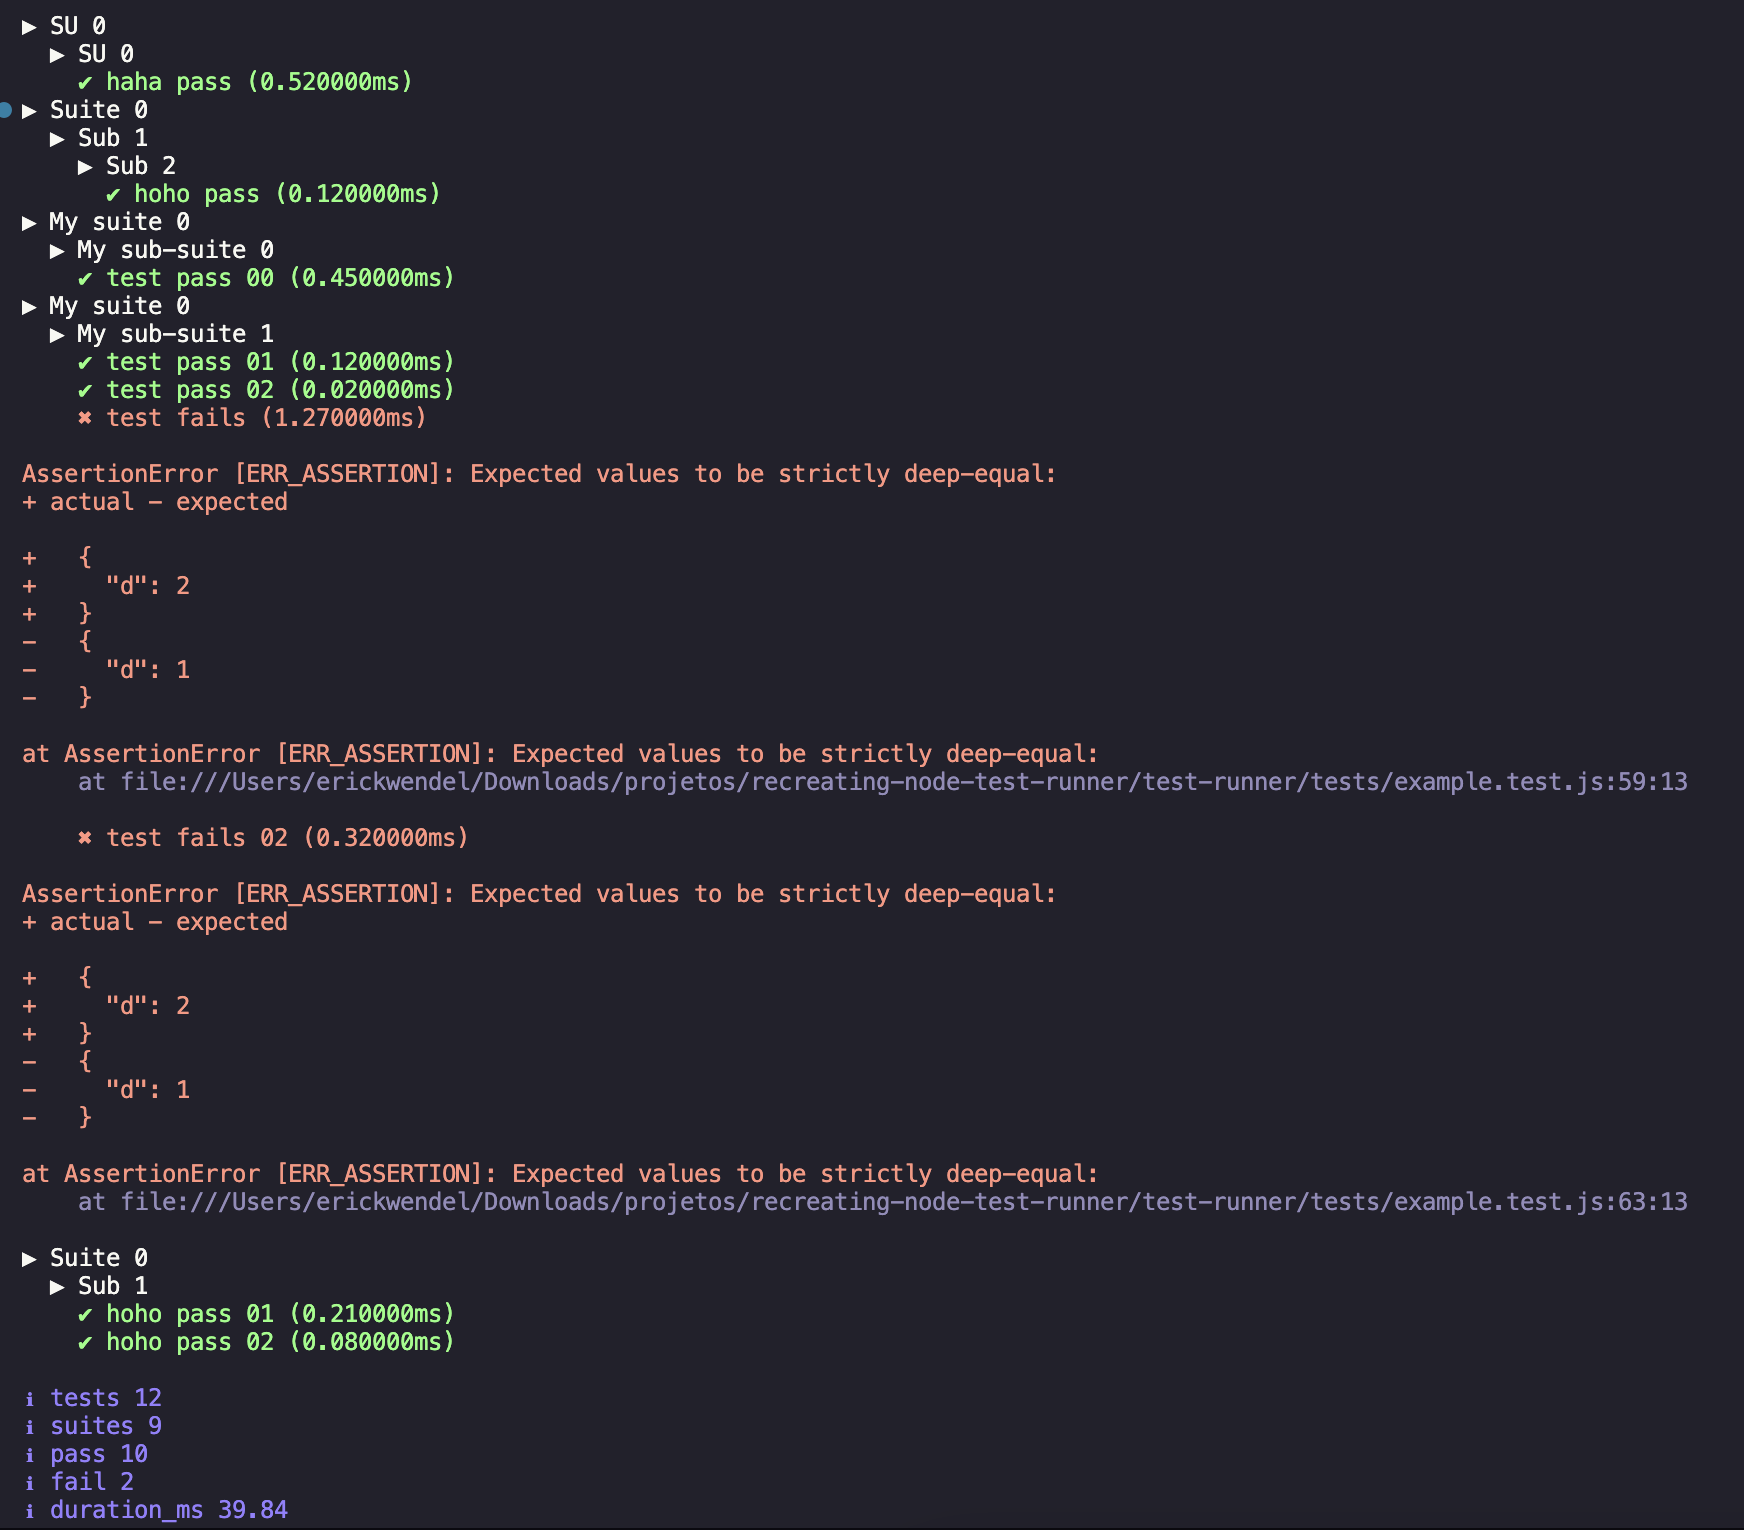
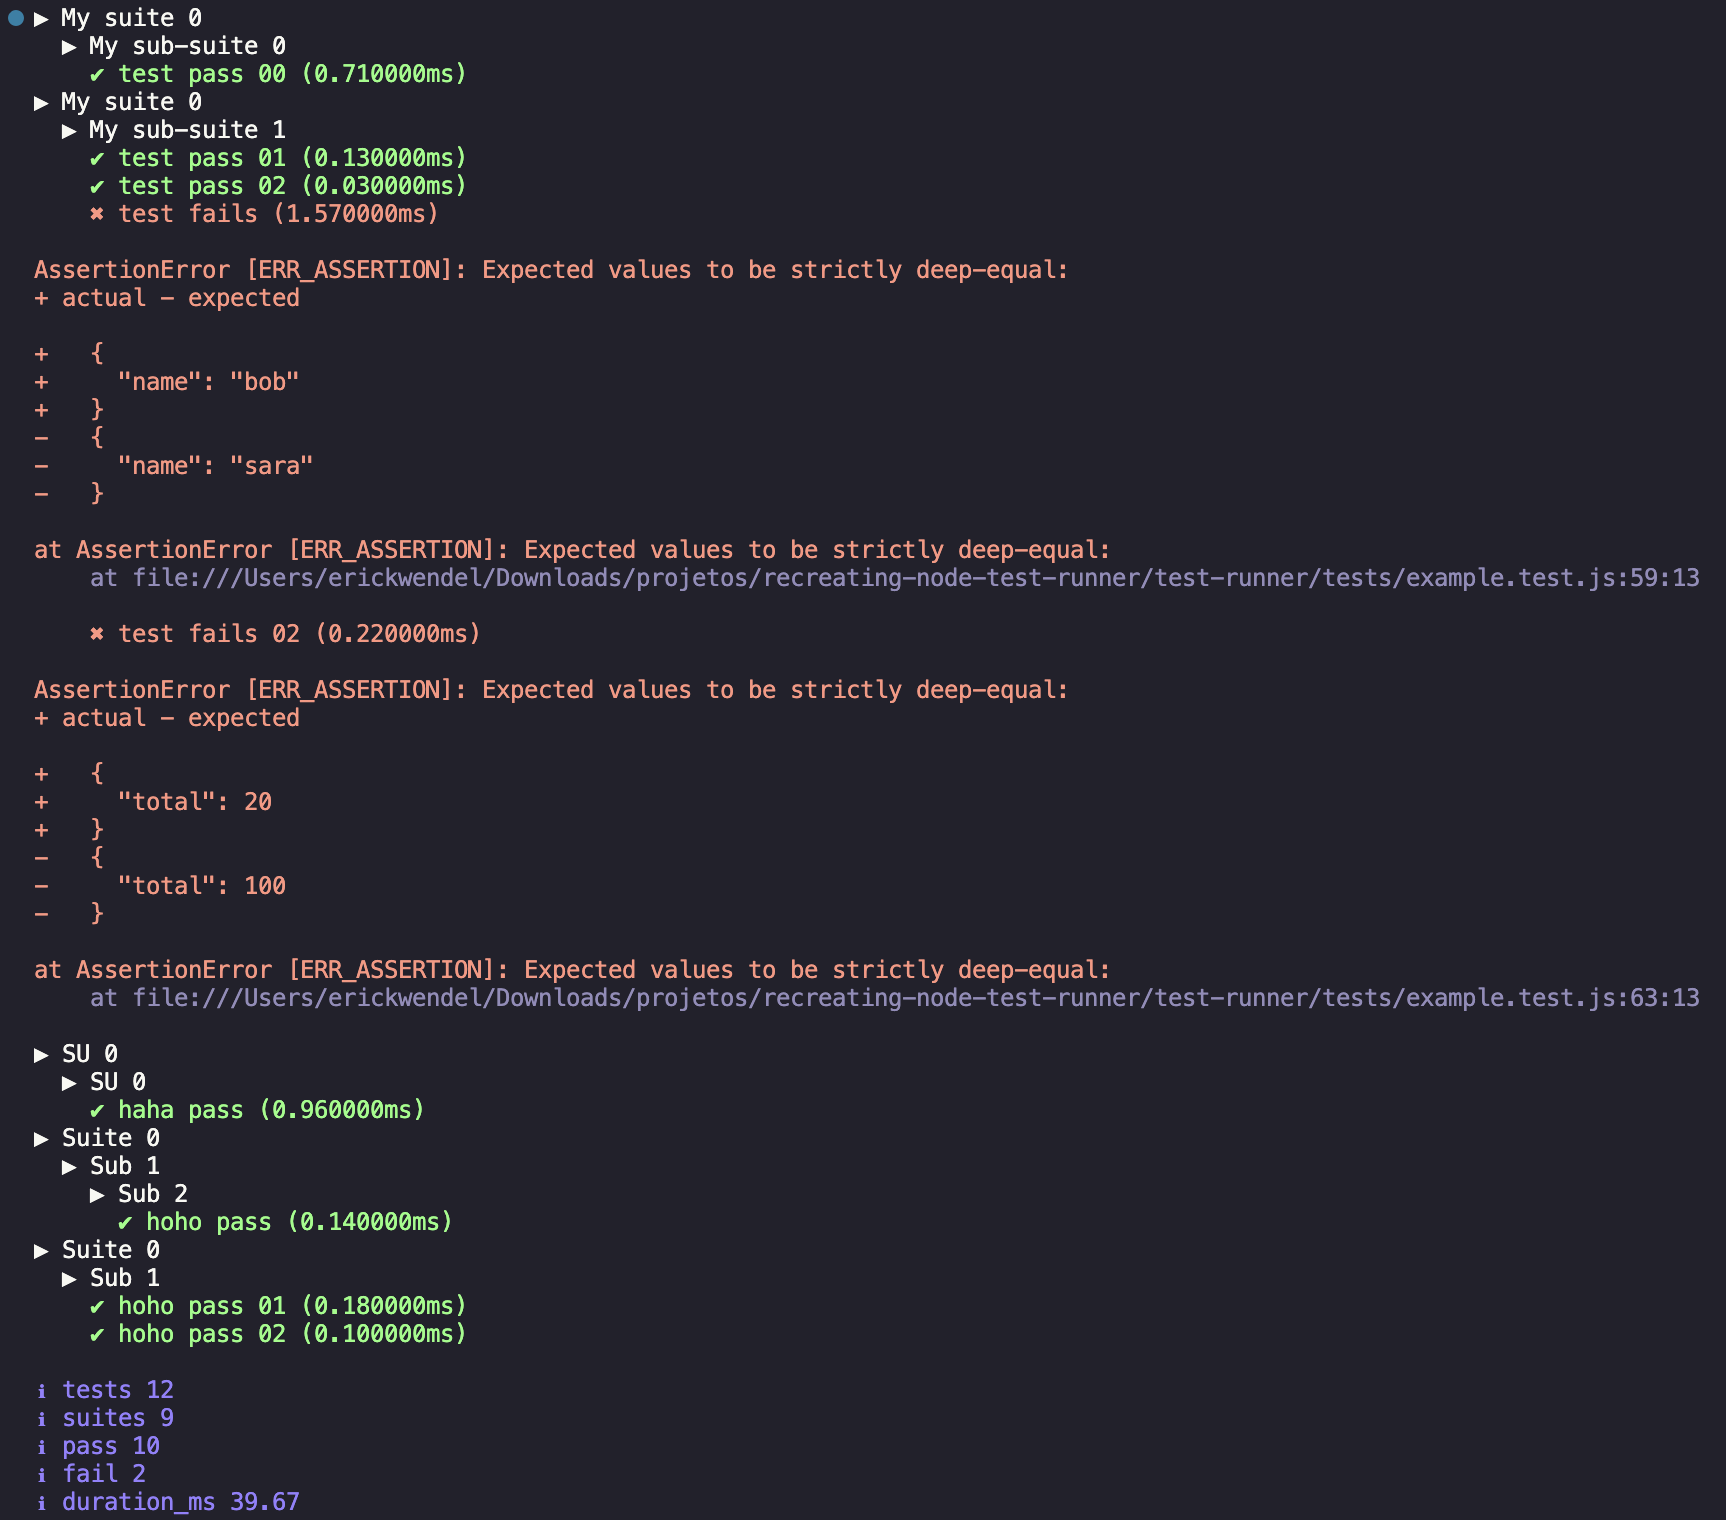
add output

diff --git a/test-runner/module/testRunner.js b/test-runner/module/testRunner.js
@@ -1,14 +1,17 @@
+import { styleText } from 'node:util';
 import { EventEmitter } from 'events';
 import { AsyncLocalStorage } from 'async_hooks';
 import TestSuite from './testSuite.js';
 import { events } from './../shared/vars.js';
+const green = msg => styleText('green', msg);
 
 const asyncLocalStorage = new AsyncLocalStorage();
 
 class TestRunner extends EventEmitter {
     constructor() {
         super();
-        this.fileOriginName = this.#getFileOriginName();
+        // todo: fix output
+        console.log(green('running executing: ' + this.#getFileOriginName()))
     }
 
     #emit(event, data) {

diff --git a/test-runner/tests/example.test.js b/test-runner/tests/example.test.js
@@ -56,11 +56,11 @@ describe('My suite 0', () => {
 
         it('test fails', async (ctx) => {
             ctx.diagnostic.log('test fails!');
-            deepStrictEqual({ d: 2 }, { d: 1 });
+            deepStrictEqual({ name: 'bob' }, { name: 'sara' });
         });
         it('test fails 02', async (ctx) => {
             ctx.diagnostic.log('test fails!');
-            deepStrictEqual({ d: 2 }, { d: 1 });
+            deepStrictEqual({ total: 20 }, { total: 100 });
         });
     });
 });
